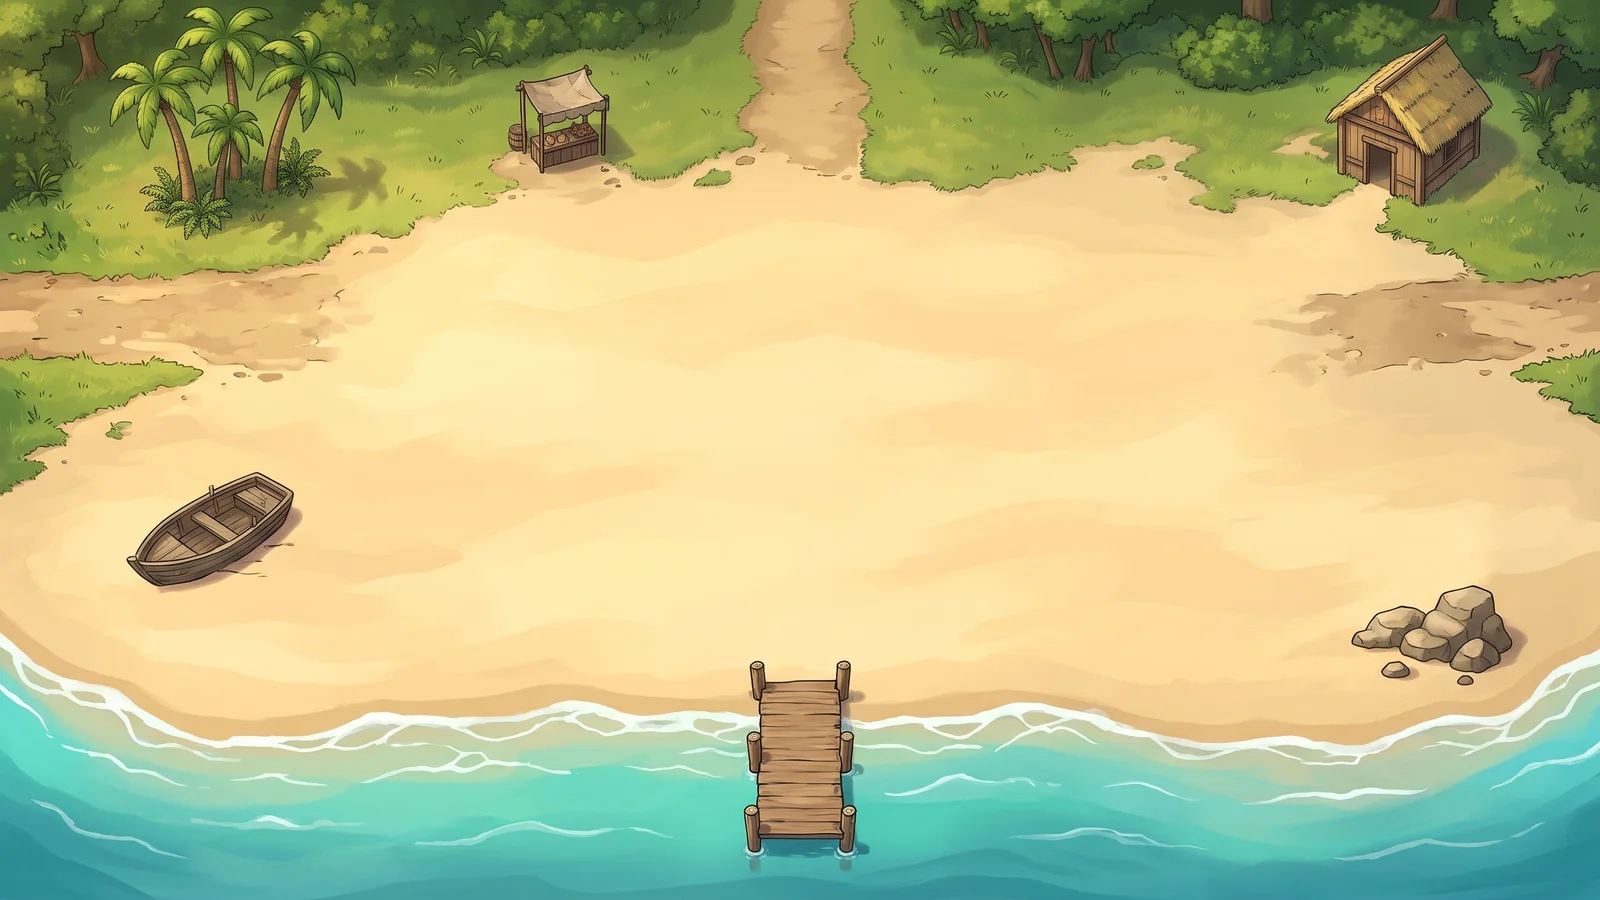
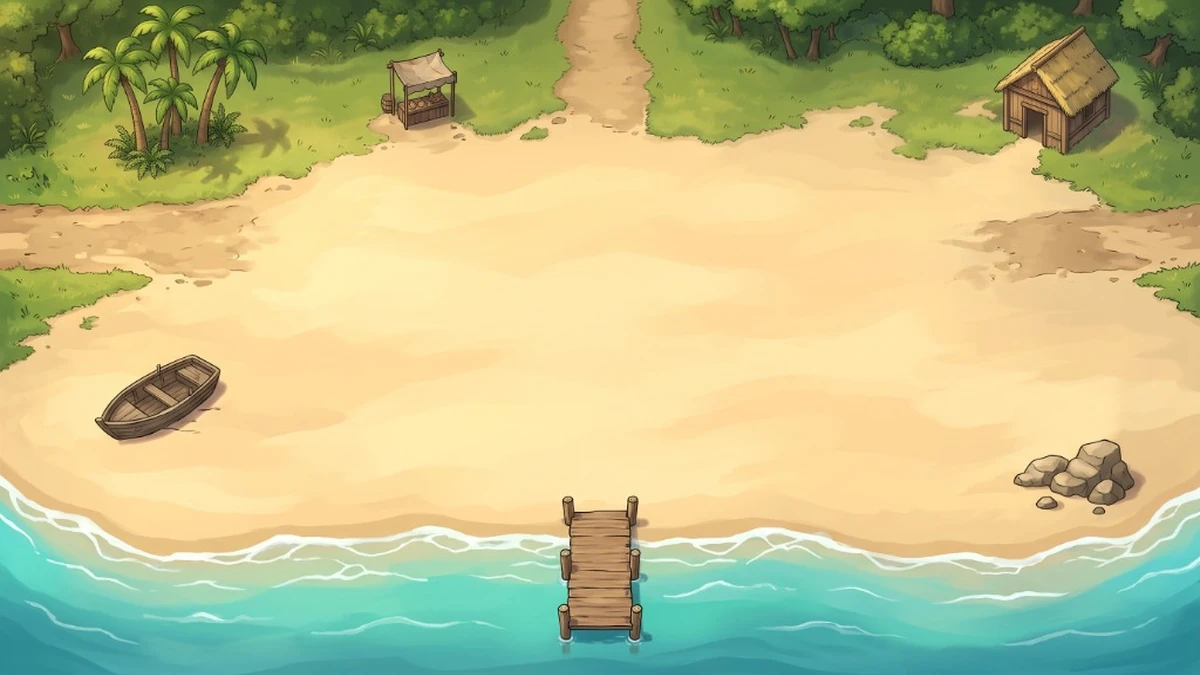
test(arte): place attached beach art on top across praia, vila, and quarteirao without removing collisions

diff --git a/confusion/web/teste-quarteirao/vila.js b/confusion/web/teste-quarteirao/vila.js
@@ -76,10 +76,10 @@ function textura(nome) {
 const materialBase = (nome, opts = {}) =>
   new THREE.MeshBasicMaterial({ map: textura(nome), transparent: true, alphaTest: 0.4, ...opts });
 
-// ---- chão: a imagem inteira da cidade. O topo da imagem fica no norte ----
+// ---- chão: arte da praia colocada por cima para teste, mantendo 100% da colisão atual da vila ----
 {
   const piso = new THREE.Mesh(new THREE.PlaneGeometry(LARG, ALT).rotateX(-Math.PI / 2),
-    new THREE.MeshBasicMaterial({ map: textura('piso-vila'), depthTest: false, depthWrite: false }));
+    new THREE.MeshBasicMaterial({ map: textura('praia-cena'), depthTest: false, depthWrite: false }));
   piso.renderOrder = 0;
   cena.add(piso);
 }
@@ -148,30 +148,11 @@ const texBase = carregador.load(A + 'vila-base.png');
 texBase.magFilter = texBase.minFilter = THREE.NearestFilter;
 texBase.generateMipmaps = false;
 const uPes = { value: 0 };
-function camadaObjetos(frente, ordem) {
-  const mat = new THREE.ShaderMaterial({
-    uniforms: { mapa: { value: texObjetos }, base: { value: texBase }, pesY: uPes, frente: { value: frente ? 1 : 0 } },
-    vertexShader: 'varying vec2 vUv; void main() { vUv = uv; gl_Position = projectionMatrix * modelViewMatrix * vec4(position, 1.0); }',
-    fragmentShader: `uniform sampler2D mapa; uniform sampler2D base; uniform float pesY; uniform float frente; varying vec2 vUv;
-      void main() {
-        vec4 c = texture2D(mapa, vUv);
-        vec3 b = texture2D(base, vUv).rgb;
-        if (b.b < 0.5 || c.a < 0.03) discard;
-        float linha = floor(b.r * 255.0 + 0.5) * 256.0 + floor(b.g * 255.0 + 0.5);
-        bool naFrente = linha > pesY;
-        if ((frente > 0.5) != naFrente) discard;
-        gl_FragColor = c;
-      }`,
-    transparent: true, depthTest: false, depthWrite: false,
-  });
-  const m = new THREE.Mesh(new THREE.PlaneGeometry(LARG, ALT).rotateX(-Math.PI / 2), mat);
-  m.position.y = 0.02;
-  m.renderOrder = ordem;
-  cena.add(m);
-  return m;
+// Objetos da vila antiga ocultados durante o teste com a arte da praia por cima
+if (false) {
+  camadaObjetos(false, 1);
+  camadaObjetos(true, 4);
 }
-camadaObjetos(false, 1);   // atrás
-camadaObjetos(true, 4);    // na frente
 
 // ---- objetos: peças planas no chão, com a base no ponto de apoio ----
 const camada = z => 0.04 + (z + ALT / 2) * 0.01;

diff --git a/confusion/web/teste-quarteirao/quarteirao.js b/confusion/web/teste-quarteirao/quarteirao.js
@@ -76,10 +76,10 @@ function textura(nome) {
 const materialBase = (nome, opts = {}) =>
   new THREE.MeshBasicMaterial({ map: textura(nome), transparent: true, alphaTest: 0.4, ...opts });
 
-// ---- chão: a imagem inteira da cidade. O topo da imagem fica no norte ----
+// ---- chão: arte da praia colocada por cima para teste, mantendo toda a colisão atual ----
 {
   const piso = new THREE.Mesh(new THREE.PlaneGeometry(LARG, ALT).rotateX(-Math.PI / 2),
-    new THREE.MeshBasicMaterial({ map: textura('piso-montanha') }));
+    new THREE.MeshBasicMaterial({ map: textura('praia-cena') }));
   cena.add(piso);
 }
 
